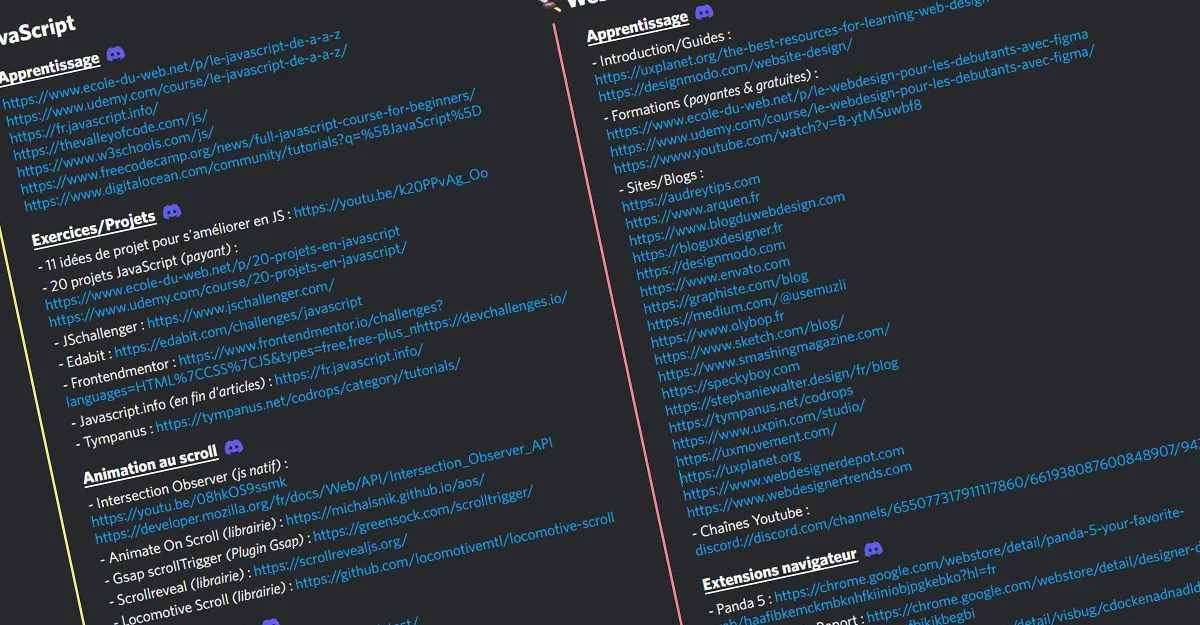
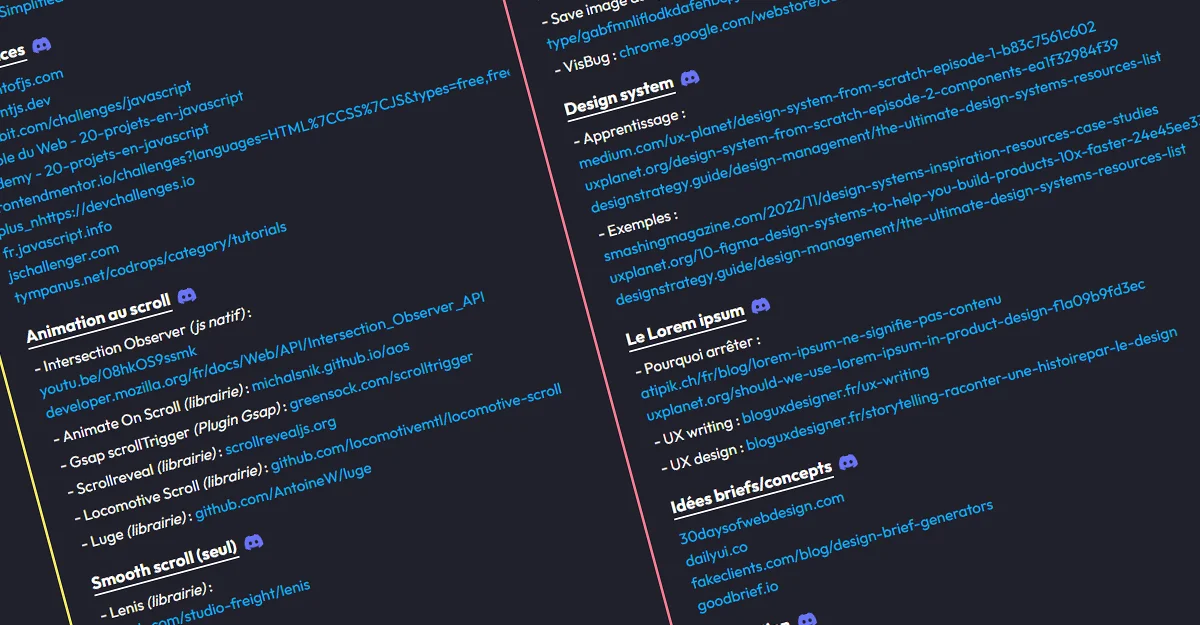
[Base] Texte fichier README.md + preview (OG + Repo)

diff --git a/README.md b/README.md
@@ -1,5 +1,48 @@
-# Liens utiles :
+<a href="https://aelweak.github.io/liens-utiles/" target="_blank"><img src="./assets/images/previewRepo.png" alt="Liens utiles"></a>
 
-▶ <a href="aelweak.github.io/liens-utiles/" target="_blank">https://aelweak.github.io/liens-utiles/</a>
+# [Liens utiles](https://aelweak.github.io/liens-utiles/)
 
-<a href="https://aelweak.github.io/liens-utiles/" target="_blank"><img src="./assets/images/previewOG.webp" alt="Aperçu liens utiles"></a>
+Cette liste n'a pas **du tout** pour vocation d'être LA plus complète.
+
+C'est sans prétention et avec plaisir que je partage quelques ressources issues de :
+
+-   Mes "favoris internet", que j'eus utilisés (pour de la découverte/apprentissage notamment), que j'utilise (à titre professionnel ou personnel, régulièrement), ou que je compte utiliser prochainement (et qui peuvent donc disparaître parce que "finalement pas vraiment utiles").
+-   Ma veille continue
+-   Ou de partages directs : `Issues`, MP/DM, etc...
+
+... Si cela peut en aider certains, ça me va déjà très bien 🙂.
+
+Il se peut que vous ne retrouviez pas forcément ce que vous utilisez, vous, habituellement, et surtout... pas forcément (beaucoup) de ressources... en français !
+
+Non pas qu'elles n'existent pas mais, cette liste étant principalement partagée sur le serveur Discord ["Le Repaire du Web", d'Enzo Ustariz](https://discord.com/invite/XFP75gW), par respect pour son travail de formateur, je ne souhaite pas proposer de liens de "concurrents directs" ou de contenu(s) fortement "similaire(s)" (et français donc).  
+_(Toutefois, cela ne signifie pas que ces mêmes contenus ne sont pas de qualité et/ou que je n'en consulte pas "en parallèle".)_
+
+# Proposer des liens
+
+Avec plaisir ! C'est par ici : [proposer un lien](https://github.com/Aelweak/liens-utiles/issues) 🙏.
+
+Néanmoins, gardez à l'esprit que je ne mettrais pas de ressources qui feraient "doublon" avec celles déjà présentes (surtout si "plus intéressantes/utiles") ou si celles-ci concernent des technos/langages que je ne souhaite pas forcément aborder à titre pro ou perso.
+
+J'essaie de remercier les contributeurs, au mieux, avec une très modeste visibilité dans la section `Merci à`, ci-dessous, et une mention dans les messages des commits (qui apparaissent également dans les _"Notes de mise à jour"_ de la page/liste).
+
+# Fonctionnalités à venir
+
+La liste est déjà un peu longue mais des améliorations "d'UX" (tris, filtres, structure, etc...) sont prévues, pour rendre le tout plus "pratique".  
+(Quand ? _"Soon:tm:"_ 🙄)
+
+# Merci à :
+
+<table>
+<td align="center">
+<a href="https://github.com/Sakoutecher" target="_blank"><img src="https://avatars.githubusercontent.com/u/88628151" width="50" alt="Sakoutecher"></a>
+<p><sub><a href="https://github.com/Sakoutecher" target="_blank"><b>Sakoutecher</b></a><br />(1 Lien)</sub></p>
+</td>
+<td align="center">
+<a href="https://github.com/Vavart" target="_blank"><img src="https://avatars.githubusercontent.com/u/68561043" width="50" alt="Vavart"></a>
+<p><sub><a href="https://github.com/Vavart" target="_blank"><b>Vavart</b></a><br />(1 Lien)</sub></p>
+</td>
+</table>
+
+### Mot de la fin
+
+N'hésitez pas à venir discuter, ici ou sur Discord, je ne mords pas (tout le temps 🐷😇).
